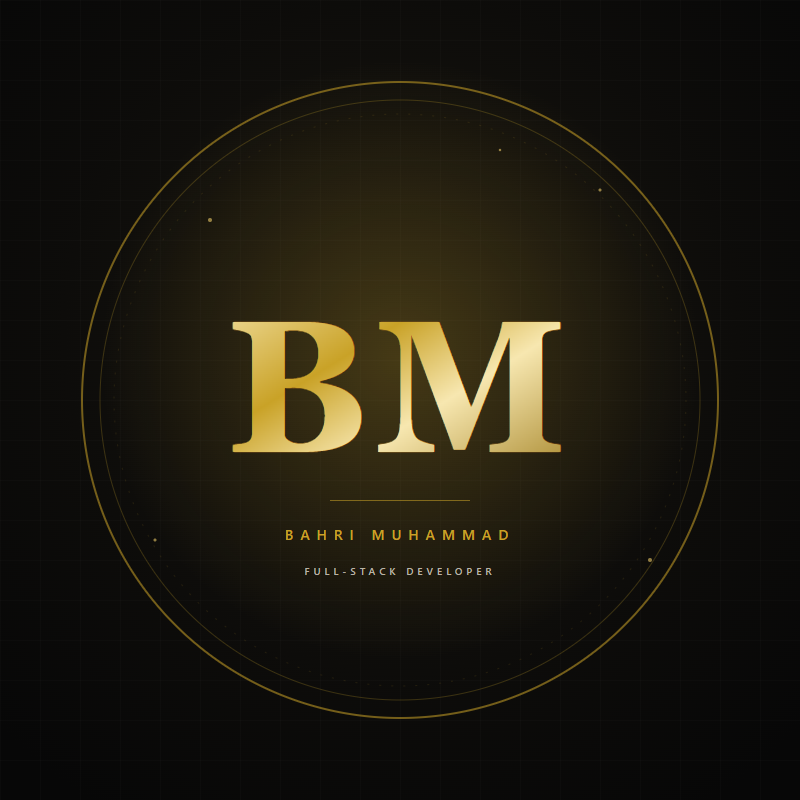
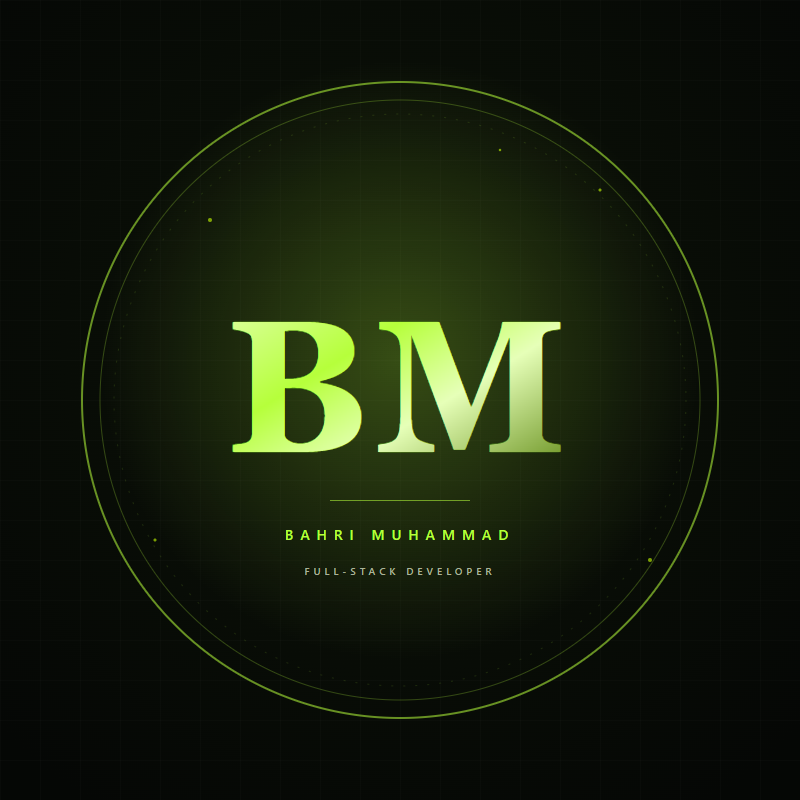
Ganti aksen emas menjadi hijau stabilo

diff --git a/README.md b/README.md
@@ -4,14 +4,14 @@
 
 <p align="center">
   <a href="https://readme-typing-svg.demolab.com">
-    <img src="https://readme-typing-svg.demolab.com?font=Playfair+Display&weight=600&size=26&duration=3200&pause=900&color=C9A227&center=true&vCenter=true&width=820&lines=Full-stack+developer;I+build+production+tools+for+small+businesses;TypeScript+%C2%B7+Fastify+%C2%B7+PostgreSQL+%C2%B7+React;Based+in+Mataram%2C+Indonesia" alt="Typing SVG">
+    <img src="https://readme-typing-svg.demolab.com?font=Playfair+Display&weight=600&size=26&duration=3200&pause=900&color=B6FF3B&center=true&vCenter=true&width=820&lines=Full-stack+developer;I+build+production+tools+for+small+businesses;TypeScript+%C2%B7+Fastify+%C2%B7+PostgreSQL+%C2%B7+React;Based+in+Mataram%2C+Indonesia" alt="Typing SVG">
   </a>
 </p>
 
 <p align="center">
-  <a href="https://portofolioku-ochre-nu.vercel.app"><img alt="Portfolio" src="https://img.shields.io/badge/PORTFOLIO-VISIT-C9A227?style=for-the-badge&logo=vercel&logoColor=0B0B0C&labelColor=0B0B0C"></a>
+  <a href="https://portofolioku-ochre-nu.vercel.app"><img alt="Portfolio" src="https://img.shields.io/badge/PORTFOLIO-VISIT-B6FF3B?style=for-the-badge&logo=vercel&logoColor=0B0B0C&labelColor=0B0B0C"></a>
   <a href="https://github.com/bahriayet?tab=repositories"><img alt="Repositories" src="https://img.shields.io/badge/REPOSITORIES-GITHUB-F5EFE3?style=for-the-badge&logo=github&logoColor=0B0B0C&labelColor=0B0B0C"></a>
-  <a href="mailto:muhammadbahri270899@gmail.com"><img alt="Email" src="https://img.shields.io/badge/EMAIL-CONTACT-C9A227?style=for-the-badge&logo=gmail&logoColor=0B0B0C&labelColor=0B0B0C"></a>
+  <a href="mailto:muhammadbahri270899@gmail.com"><img alt="Email" src="https://img.shields.io/badge/EMAIL-CONTACT-B6FF3B?style=for-the-badge&logo=gmail&logoColor=0B0B0C&labelColor=0B0B0C"></a>
 </p>
 
 <p align="center">
@@ -137,12 +137,12 @@ tools that are usually spread across paper, spreadsheets, and chat groups.
 <h2 align="center">✦ GitHub in numbers ✦</h2>
 
 <p align="center">
-  <img width="100%" src="https://github-profile-summary-cards.vercel.app/api/cards/profile-details?username=bahriayet&theme=gruvbox" alt="GitHub profile summary">
+  <img width="100%" src="https://github-profile-summary-cards.vercel.app/api/cards/profile-details?username=bahriayet&theme=github_dark" alt="GitHub profile summary">
 </p>
 
 <p align="center">
-  <img width="49%" src="https://streak-stats.demolab.com?user=bahriayet&hide_border=true&background=0B0B0C&border=2A2418&stroke=C9A227&ring=E8C766&fire=C9A227&currStreakNum=F5EFE3&sideNums=F5EFE3&currStreakLabel=C9A227&sideLabels=B9B3A6&dates=8B8580&border_radius=12" alt="GitHub streak">
-  <img width="49%" src="https://github-profile-summary-cards.vercel.app/api/cards/repos-per-language?username=bahriayet&theme=gruvbox" alt="Repositories per language">
+  <img width="49%" src="https://streak-stats.demolab.com?user=bahriayet&hide_border=true&background=0B0B0C&border=2A2418&stroke=B6FF3B&ring=D9FF8A&fire=B6FF3B&currStreakNum=F5EFE3&sideNums=F5EFE3&currStreakLabel=B6FF3B&sideLabels=B9B3A6&dates=8B8580&border_radius=12" alt="GitHub streak">
+  <img width="49%" src="https://github-profile-summary-cards.vercel.app/api/cards/repos-per-language?username=bahriayet&theme=github_dark" alt="Repositories per language">
 </p>
 
 <p align="center">
@@ -154,5 +154,5 @@ tools that are usually spread across paper, spreadsheets, and chat groups.
 </p>
 
 <p align="center">
-  <img src="https://komarev.com/ghpvc/?username=bahriayet&label=PROFILE+VIEWS&color=C9A227&style=for-the-badge" alt="Profile views">
+  <img src="https://komarev.com/ghpvc/?username=bahriayet&label=PROFILE+VIEWS&color=B6FF3B&style=for-the-badge" alt="Profile views">
 </p>

diff --git a/SETUP.md b/SETUP.md
@@ -1,0 +1,90 @@
+# GitHub profile — remaining manual steps
+
+Most of the cleanup is already live. This file lists only the steps that need
+your GitHub login.
+
+## Already done
+
+- Profile repository `bahriayet/bahriayet` created with a black-and-neon-green
+  README, animated banner, typing header, project cards, and GitHub summary
+  cards.
+- `busa` has a new README, MIT license, CI, issue templates, Dependabot, and
+  security settings.
+- `portofolioku`, `undanga-pernikahan`, `KICK-STORM`, and
+  `smart-facility-hub` have new READMEs, metadata, and topics.
+- `KICK-STORM` was rebuilt as a clean public repository. The old repository is
+  private and archived as `kickstorm-archive`.
+- `hehe1` (old WhatsApp bot code) is private and archived.
+- `Hehe-123` was renamed to `symbiotrade-spec` and given a proper README.
+- Repository descriptions, topics, and homepages were updated through the API.
+
+## 1. Set the profile details
+
+Open <https://github.com/settings/profile>.
+
+**Profile picture**
+
+Upload `D:\ui-profile\assets\avatar.png` (black-and-neon-green BM monogram).
+
+**Bio**
+
+```text
+Full-stack developer · TypeScript, Fastify, PostgreSQL · Building production tools for small businesses in Indonesia.
+```
+
+**Website**
+
+```text
+https://portofolioku-ochre-nu.vercel.app
+```
+
+**Location**
+
+```text
+Mataram, Indonesia
+```
+
+## 2. Pin repositories
+
+Open <https://github.com/bahriayet> and click **Customize your pins**.
+
+Pin, in this order:
+
+1. `busa`
+2. `KICK-STORM`
+3. `portofolioku`
+4. `undanga-pernikahan`
+5. `symbiotrade-spec`
+6. `smart-facility-hub`
+
+Pinning replaces the default "Popular repositories" list, which is currently
+ordered by GitHub's own logic.
+
+## 3. Social preview images
+
+For `busa`: **Settings → General → Social preview → Upload an image**.
+Use `D:\ui\docs\screenshots\landing-desktop.png` (crop to 1280×640).
+
+For the profile repository: upload `D:\ui-profile\assets\banner.png`.
+
+## 4. Rotate the exposed admin password
+
+The old `KICK-STORM` repository publicly exposed `.env.example` with an admin
+password and a database backup with customer names, emails, and addresses.
+
+1. Change `ADMIN_PASSWORD` in the deployment environment (Vercel/Render).
+2. Redeploy so the new password takes effect.
+3. Confirm the old admin tokens no longer work. Tokens are signed with the
+   admin password, so rotating it invalidates them.
+4. Delete the `kickstorm-archive` repository once you no longer need it:
+   **Settings → General → Danger Zone → Delete this repository**.
+
+The new `KICK-STORM` repository has no database backups, uploads, or real
+password in its history.
+
+## 5. Optional
+
+- Enable 2FA: <https://github.com/settings/security>.
+- Review the six Dependabot pull requests on `busa`; merge or close them.
+- Add a profile photo if the current avatar is not the one you want.
+- Add a LinkedIn or personal domain to the profile links.
